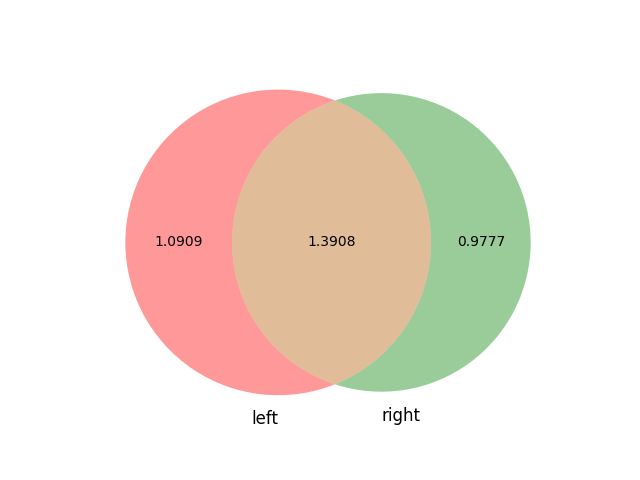
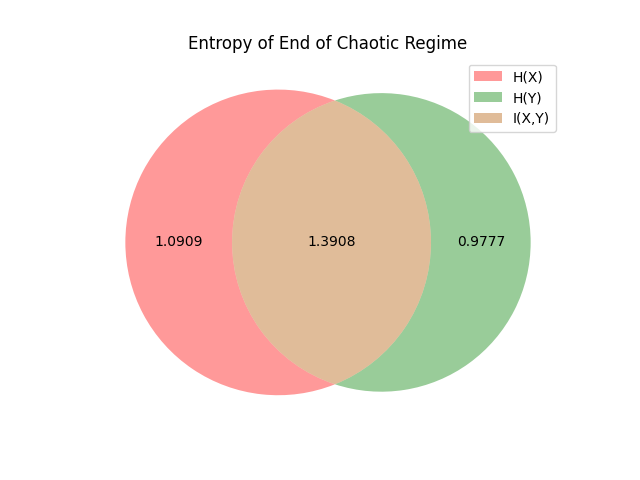
updating formatting for figures

diff --git a/part1/fig1a/logistic_map.py b/part1/fig1a/logistic_map.py
@@ -41,11 +41,11 @@ def iterative(r, y0):
         y[t]=r*y[t-1]*(1.0-y[t-1]/k)
     return x,y
         
-def plot_func(r, y0, label=""):
+def plot_func(r, y0, label="", thickness=1.5):
     x,y = iterative(r, y0)
     plt.xlabel("t")
     plt.ylabel("Population size")
-    plt.plot(x, y, label=label)
+    plt.plot(x, y, label=label, linewidth=thickness)
     return x,y
 
 xs = []
@@ -55,7 +55,7 @@ ys = []
 r = 2.8
 
 y0 = 0.1
-x, y = plot_func(r, y0, f"r={r}, y0={y0}")
+x, y = plot_func(r, y0, f"r={r}, y0={y0}", thickness=3)
 xs.append(x); ys.append(y)
 
 y0 = 0.11
@@ -63,9 +63,10 @@ x, y = plot_func(r, y0, f"r={r}, y0={y0}")
 xs.append(x); ys.append(y)
 
 plt.rcParams["figure.figsize"] = (16,12)
-plt.legend(loc="upper right")
+plt.legend(loc="lower right")
+plt.title("Logistic Map in Non-Chaotic Regime")
 if draw:
-    plt.savefig('fig_1a_1.png', dpi=dpi)
+    plt.savefig('fig_1a_non_chaotic.png', dpi=dpi)
 
 plt.clf()
 ########################################
@@ -82,9 +83,10 @@ x, y = plot_func(r, y0, f"r={r}, y0={y0}")
 xs.append(x); ys.append(y)
 
 plt.rcParams["figure.figsize"] = (16,12)
-plt.legend(loc="upper right")
+plt.legend(loc="lower right")
+plt.title("Logistic Map in Chaotic Regime")
 if draw:
-    plt.savefig('fig_1a_2.png', dpi=dpi)
+    plt.savefig('fig_1a_chaotic.png', dpi=dpi)
 
 plt.clf()
 ########################################
@@ -138,16 +140,19 @@ def venn_diagram(y0_full, y1_full, n, beginning=True):
     y0_venn_val = y0_entropy - mi
     y1_venn_val = y1_entropy - mi
     subsets = [round(x, 4) for x in [y0_venn_val, y1_venn_val, mi]]
-    venn2(subsets=subsets, set_labels=('left', 'right', 'MI'))
+    v = venn2(subsets=subsets, set_labels=['', '', ''])
+    plt.legend(handles=v.patches, labels=["H(X)","H(Y)","I(X,Y)"])
 
 n = find_divergence(xs[2],xs[3], ys[2], ys[3])
 
 ################Non-Chaotic#############
 venn_diagram(ys[0], ys[1], n)
+plt.title("Entropy of Beginning of Non-Chaotic Regime")
 if draw:
     plt.savefig('fig_1b_non_chaotic_beginning.png', dpi=dpi)
 plt.clf()
 venn_diagram(ys[0], ys[1], n, beginning=False)
+plt.title("Entropy of End of Non-Chaotic Regime")
 if draw:
     plt.savefig('fig_1b_non_chaotic_end.png', dpi=dpi)
 plt.clf()
@@ -155,10 +160,12 @@ plt.clf()
 
 ################Chaotic#################
 venn_diagram(ys[2], ys[3], n)
+plt.title("Entropy of Beginning of Chaotic Regime")
 if draw:
     plt.savefig('fig_1b_chaotic_beginning.png', dpi=dpi)
 plt.clf()
 venn_diagram(ys[2], ys[3], n, beginning=False)
+plt.title("Entropy of End of Chaotic Regime")
 if draw:
     plt.savefig('fig_1b_chaotic_end.png', dpi=dpi)
 plt.clf()
